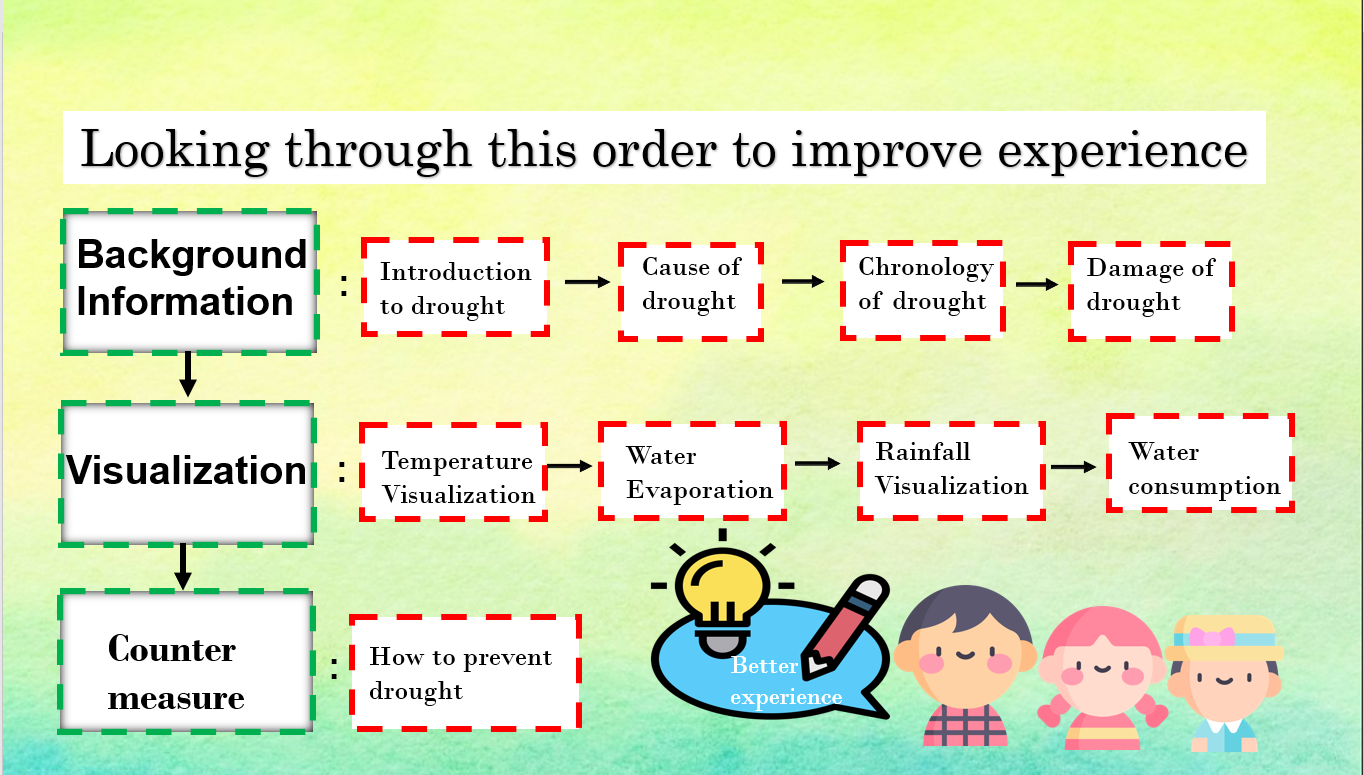
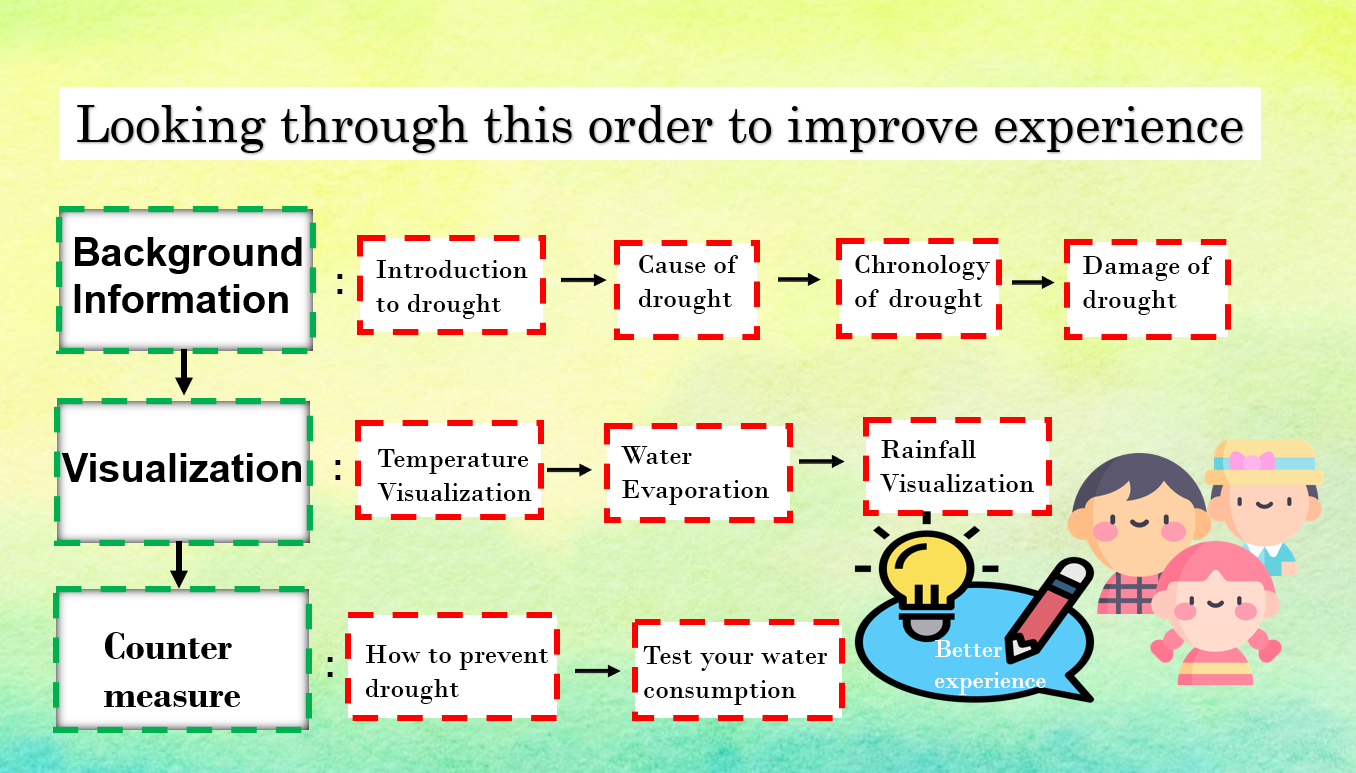
Homepage Fix cont.
Change the recommended view order.
Change first and last slide back to cover so it always contain down arrow.

Changed region(s): [[0.031, 0.0, 1.0, 1.0]]

diff --git a/src/Pages/fact.jsx b/src/Pages/fact.jsx
@@ -216,7 +216,7 @@ const fact = (props) => {
 
         {/* card container */}
         <Container ref={props.myRef} className={classes.cardGrid} maxWidth="xl">
-          {/* grid container */}
+          {/* Background info section */}
           <div className={classes.heroContent}>
             <Container maxWidth="x1">
               <Typography
@@ -246,6 +246,36 @@ const fact = (props) => {
           </Grid>
           <Container className={classes.placeHolder} />
 
+          {/* Viz section */}
+          <div className={classes.heroContent}>
+            <Container maxWidth="x1">
+              <Typography
+                component="h1"
+                variant="h2"
+                align="center"
+                color="textPrimary"
+                gutterBottom
+              >
+                Visualization
+              </Typography>
+              <img
+                src={Vis}
+                alt="..."
+                style={{
+                  marginTop: "10px",
+                  marginLeft: "0",
+                  width: "100%",
+                  height: "100%",
+                }}
+              />
+            </Container>
+          </div>
+          <Container className={classes.placeHolder} />
+          <Grid container spacing={4}>
+            {mapCard(cards.slice(6, cards.length))};
+          </Grid>
+
+          {/* Countermeasure section */}
           <div className={classes.heroContent}>
             <Container maxWidth="x1">
               <Typography
@@ -274,34 +304,6 @@ const fact = (props) => {
             {mapCard(cards.slice(4, 6))};
           </Grid>
           <Container className={classes.placeHolder} />
-
-          <div className={classes.heroContent}>
-            <Container maxWidth="x1">
-              <Typography
-                component="h1"
-                variant="h2"
-                align="center"
-                color="textPrimary"
-                gutterBottom
-              >
-                Visualization
-              </Typography>
-              <img
-                src={Vis}
-                alt="..."
-                style={{
-                  marginTop: "10px",
-                  marginLeft: "0",
-                  width: "100%",
-                  height: "100%",
-                }}
-              />
-            </Container>
-          </div>
-          <Container className={classes.placeHolder} />
-          <Grid container spacing={4}>
-            {mapCard(cards.slice(6, cards.length))};
-          </Grid>
         </Container>
       </main>
     </>

diff --git a/src/components/Navbar.jsx b/src/components/Navbar.jsx
@@ -183,15 +183,6 @@ const Navbar = () => {
       anchor: anchorEl,
     },
     {
-      startIndex: 4,
-      endIndex: 6,
-      menuName: "How To Prevent Drought",
-      menuId: "menu_2",
-      open: handleClick3,
-      close: handleClose3,
-      anchor: anchorElll,
-    },
-    {
       startIndex: 6,
       endIndex: 9,
       menuName: "Visualization",
@@ -199,6 +190,15 @@ const Navbar = () => {
       open: handleClick2,
       close: handleClose2,
       anchor: anchorEll,
+    },
+    {
+      startIndex: 4,
+      endIndex: 6,
+      menuName: "How To Prevent Drought",
+      menuId: "menu_2",
+      open: handleClick3,
+      close: handleClose3,
+      anchor: anchorElll,
     },
   ];
 

diff --git a/src/components/Header.jsx b/src/components/Header.jsx
@@ -132,7 +132,7 @@ const Header = (props) => {
           <div
             style={{
               backgroundImage: `url(${slideShow5})`,
-              backgroundSize: "contain",
+              backgroundSize: "cover",
               ...imgSlideStyle,
             }}
           >
